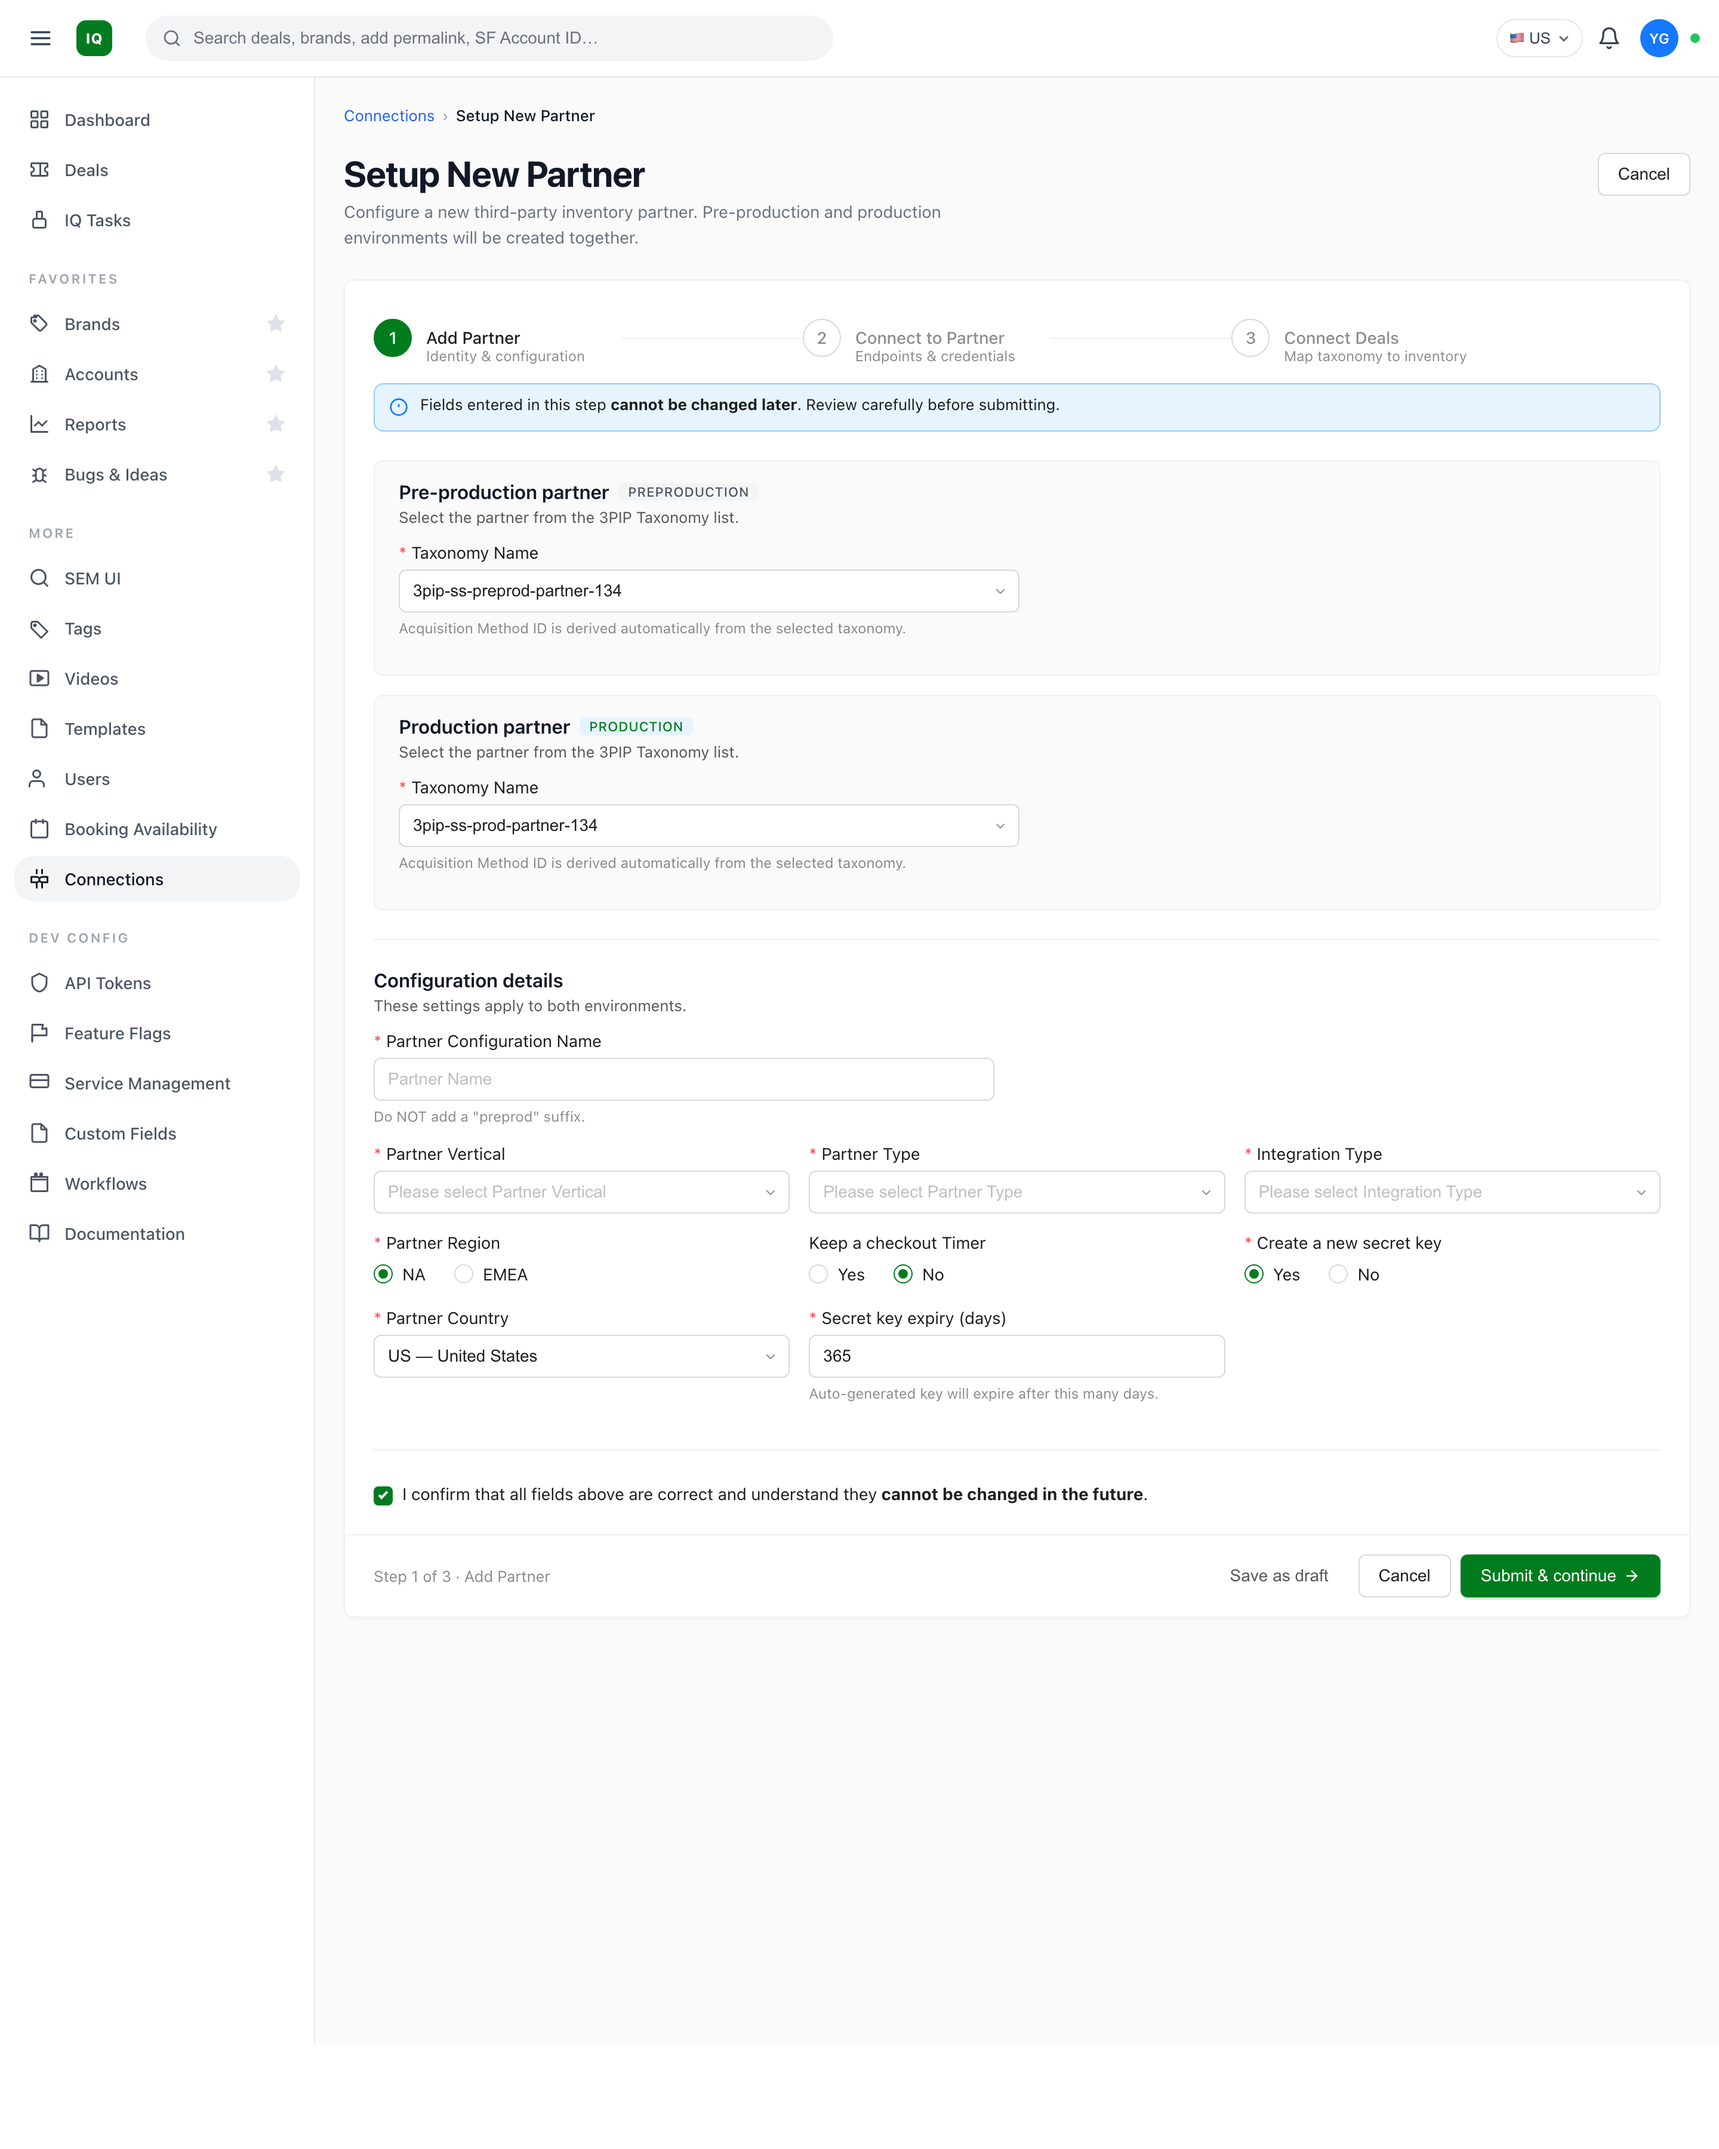
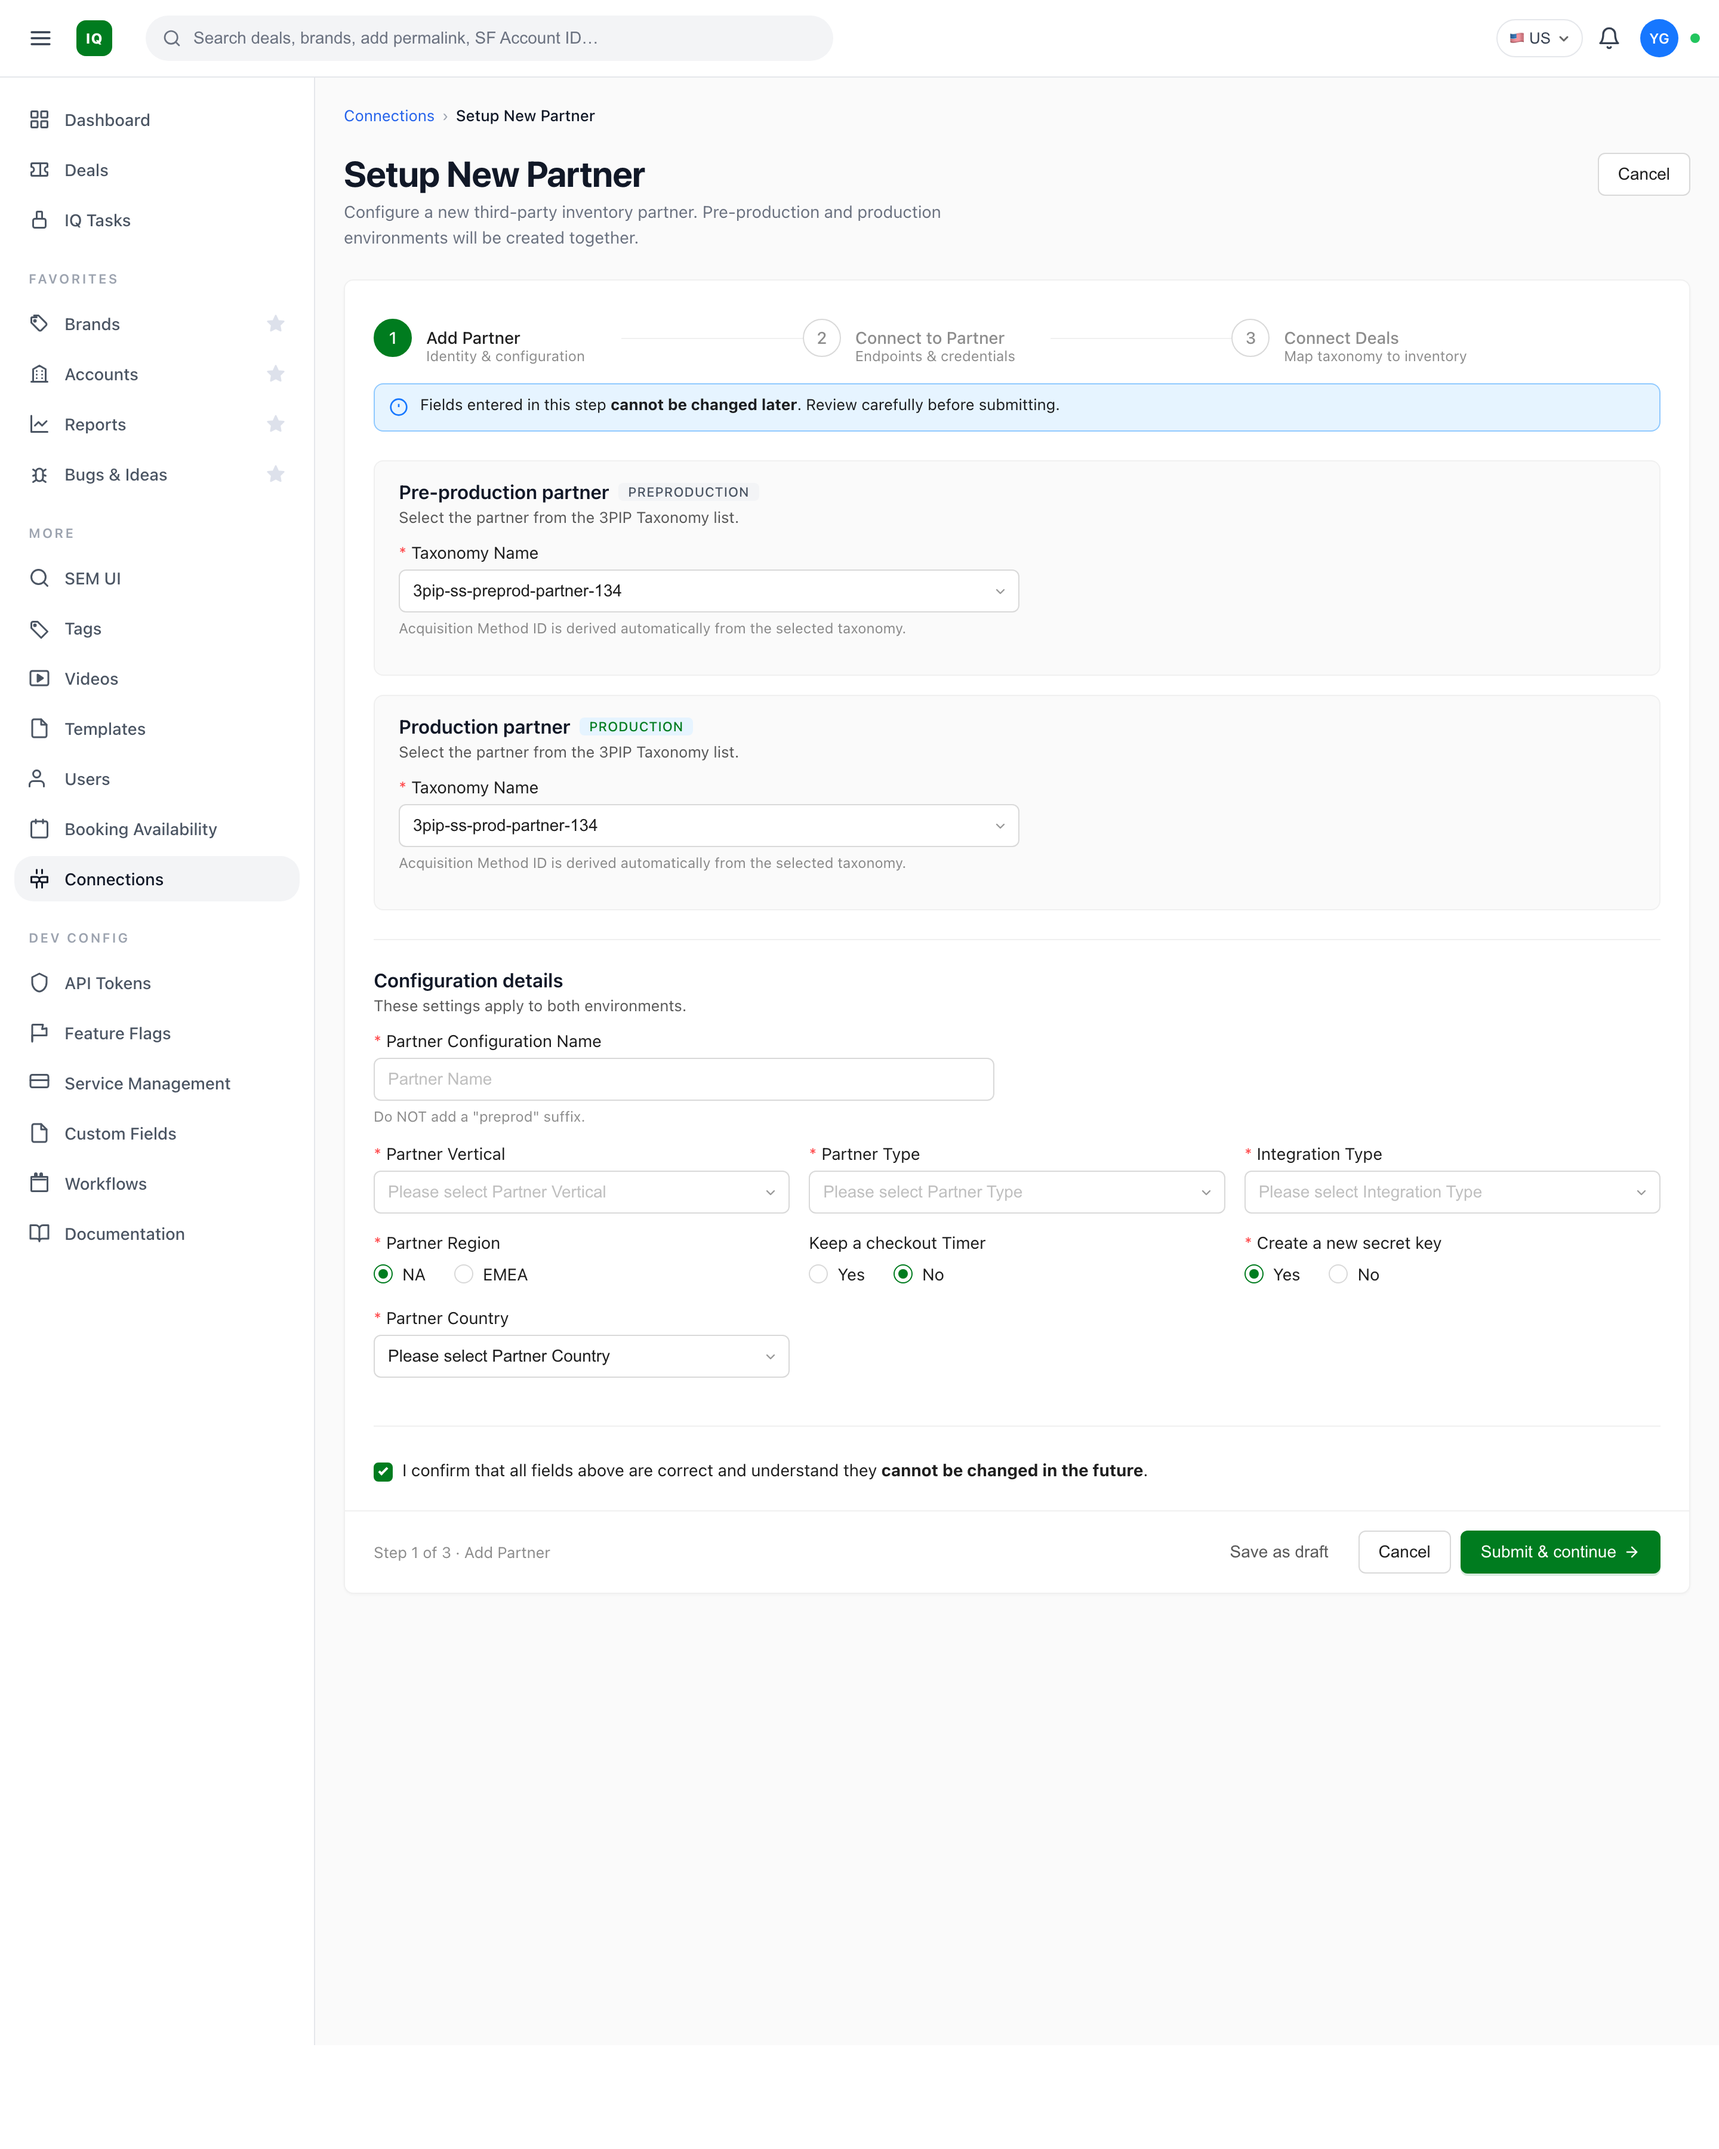
Wizard conditional fields: match tpp exactly
After verifying tpp's actual behavior:

Partner Country (real values):
- NA: US (USD), CA (CAD).
- EMEA: BE (EUR), CA (CAD), DE (EUR), ES (EUR), FR (EUR), IE (EUR), IT (EUR),
  NL (EUR), PL (PLN), UK (GBP), AU (AUD), AE (AED).
- Default placeholder is "Please select Partner Country" (no preselection),
  matching tpp's behavior of requiring an explicit pick.

Checkout Timer (Yes-conditional):
- Renamed label from "Checkout Timer Duration" to "Enter Checkout Timer
  Duration" to match tpp.
- Updated placeholder to "Enter Duration in minutes (Only Numeric value)"
  (was "Enter duration in minutes").
- Removed the "hint" line beneath the input, since tpp doesn't show one.

Create a new secret key:
- Removed the "Secret key expiry (days)" conditional field entirely. tpp
  does NOT show any conditional input when Yes is selected; the radio just
  controls server-side key generation on submit.

diff --git a/iq-setup-new-partner-mockup.html b/iq-setup-new-partner-mockup.html
@@ -631,15 +631,10 @@
                 </select>
               </div>
               <div class="field" id="checkoutTimerField" style="display: none;">
-                <label><span class="req">*</span>Checkout Timer Duration</label>
-                <input id="checkoutTimerInput" class="input" placeholder="Enter duration in minutes" />
-                <span class="hint">Time in minutes before unconfirmed holds expire.</span>
+                <label><span class="req">*</span>Enter Checkout Timer Duration</label>
+                <input id="checkoutTimerInput" class="input" placeholder="Enter Duration in minutes (Only Numeric value)" />
               </div>
-              <div class="field" id="secretKeyExpiryField">
-                <label><span class="req">*</span>Secret key expiry (days)</label>
-                <input id="secretKeyExpiryInput" class="input" value="365" />
-                <span class="hint">Auto-generated key will expire after this many days.</span>
-              </div>
+              <div class="field"><!-- third column intentionally empty: tpp shows no conditional for Create a new secret key --></div>
             </div>
 
             <div class="divider"></div>
@@ -736,23 +731,22 @@
   });
 
   // ===== Conditional fields based on radio selections =====
+  // Country options match tpp's actual partner-portal data for each region.
   const COUNTRIES = {
-    NA:   ['US — United States', 'CA — Canada', 'MX — Mexico'],
-    EMEA: ['GB — United Kingdom', 'IE — Ireland', 'DE — Germany', 'FR — France',
-           'IT — Italy', 'ES — Spain', 'NL — Netherlands', 'BE — Belgium',
-           'AT — Austria', 'CH — Switzerland', 'PL — Poland', 'CZ — Czech Republic'],
+    NA:   ['US (USD)', 'CA (CAD)'],
+    EMEA: ['BE (EUR)', 'CA (CAD)', 'DE (EUR)', 'ES (EUR)', 'FR (EUR)', 'IE (EUR)',
+           'IT (EUR)', 'NL (EUR)', 'PL (PLN)', 'UK (GBP)', 'AU (AUD)', 'AE (AED)'],
   };
   const countrySelect = document.getElementById('partnerCountrySelect');
 
   function populateCountries(region) {
     if (!countrySelect) return;
-    countrySelect.innerHTML = '';
+    countrySelect.innerHTML = '<option value="">Please select Partner Country</option>';
     const opts = COUNTRIES[region] || [];
-    opts.forEach((label, i) => {
+    opts.forEach(label => {
       const opt = document.createElement('option');
-      opt.value = label.split(' — ')[0];
+      opt.value = label.split(' ')[0];
       opt.textContent = label;
-      if (i === 0) opt.selected = true;
       countrySelect.appendChild(opt);
     });
   }
@@ -768,7 +762,7 @@
     regionRadios.addEventListener('radio-change', e => populateCountries(e.detail.value));
   }
 
-  // Timer Yes/No → show/hide Checkout Timer Duration
+  // Timer Yes/No → show/hide Enter Checkout Timer Duration
   const timerRadios = document.getElementById('timerRadios');
   const timerField  = document.getElementById('checkoutTimerField');
   if (timerRadios && timerField) {
@@ -777,19 +771,12 @@
     });
   }
 
-  // Secret Yes/No → show/hide Secret key expiry
-  const secretRadios = document.getElementById('secretRadios');
-  const secretField  = document.getElementById('secretKeyExpiryField');
-  if (secretRadios && secretField) {
-    secretRadios.addEventListener('radio-change', e => {
-      secretField.style.display = e.detail.value === 'yes' ? '' : 'none';
-    });
-  }
+  // Note: tpp does NOT show any conditional input when Create a new secret key = Yes.
+  // The radio simply controls whether a new key is generated server-side on submit.
 
   // Initial state on page load — apply current radio defaults
   populateCountries(getCheckedValue('regionRadios') || 'NA');
-  if (timerField)  timerField.style.display  = getCheckedValue('timerRadios')  === 'yes' ? '' : 'none';
-  if (secretField) secretField.style.display = getCheckedValue('secretRadios') === 'yes' ? '' : 'none';
+  if (timerField) timerField.style.display = getCheckedValue('timerRadios') === 'yes' ? '' : 'none';
 
   // Checkbox: toggle .checked
   document.querySelectorAll('.checkbox').forEach(cb => {
